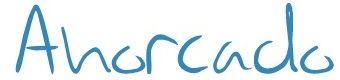
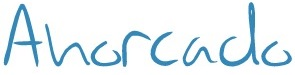
New title update

Changed region(s): [[0.0, 0.0267, 1.0, 0.9333]]

diff --git a/style.css b/style.css
@@ -189,7 +189,7 @@ footer a:hover, footer a:active {text-decoration: underline; color: #00628f; bac
 }
 
 @media only screen and (max-width: 350px) {
-    .title, .bar, canvas {
+    .bar, canvas {
         width: 90vw;
     }
 
@@ -199,7 +199,7 @@ footer a:hover, footer a:active {text-decoration: underline; color: #00628f; bac
     }
 
     footer {
-        margin-top: 128px;
+        margin-top: 140px;
         font-size: 13px;
     }
 }
